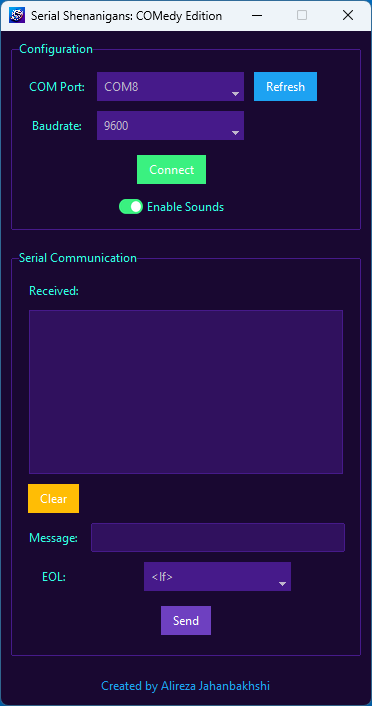
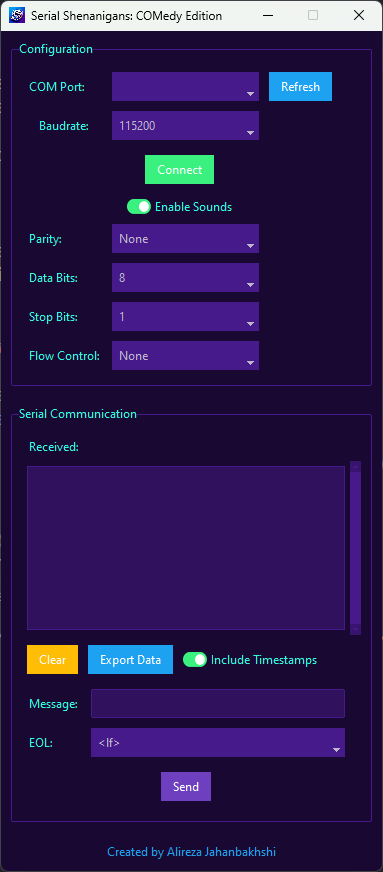
feat: Advanced Serial App features and enhanced documentation  - **Code Updates**:   - Introduced advanced serial port settings (parity, stop bits, data bits, and flow control).   - Added data export functionality supporting `.txt`, `.csv`, and `.json` formats.   - Enhanced user experience with a ti

diff --git a/serial_app.py b/serial_app.py
@@ -1,9 +1,13 @@
 import ttkbootstrap as ttk
 from ttkbootstrap.constants import *
+from tkinter import messagebox  
 import serial
 import serial.tools.list_ports
 import threading
 import winsound  
+import json
+from tkinter import filedialog
+from datetime import datetime
 
 class SerialApp:
     def __init__(self, root):
@@ -51,15 +55,37 @@ class SerialApp:
         io_frame = ttk.Labelframe(root, text="Serial Communication", padding=10)
         io_frame.pack(fill=BOTH, expand=YES, padx=10, pady=10)
 
-        # Received Data Display
+        # Received Data Display with Scrollbar
         ttk.Label(io_frame, text="Received:").grid(row=0, column=0, padx=5, pady=5)
-        self.receive_text = ttk.Text(io_frame, height=10, width=50, state=NORMAL)
-        self.receive_text.grid(row=1, column=0, columnspan=2, padx=5, pady=5)
-        self.receive_text.config(state=DISABLED)
+        self.receive_text = ttk.Text(io_frame, height=10, width=50, wrap='word', state=DISABLED)
+        self.receive_text.grid(row=1, column=0, columnspan=2, padx=5, pady=5, sticky='nsew')
+
+        # Add Scrollbar
+        scrollbar = ttk.Scrollbar(io_frame, orient='vertical', command=self.receive_text.yview)
+        scrollbar.grid(row=1, column=2, sticky='ns')
+        self.receive_text.config(yscrollcommand=scrollbar.set)
+
+        # Row for Clear, Export, and Timestamp Toggle
+        button_frame = ttk.Frame(io_frame)  # Create a sub-frame to align buttons
+        button_frame.grid(row=2, column=0, columnspan=3, pady=5, sticky='w')
 
         # Clear Button
-        clear_button = ttk.Button(io_frame, text="Clear", bootstyle="warning", command=self.clear_terminal)
-        clear_button.grid(row=2, column=0, padx=5, pady=5)
+        clear_button = ttk.Button(button_frame, text="Clear", bootstyle="warning", command=self.clear_terminal)
+        clear_button.grid(row=0, column=0, padx=5, pady=5)
+
+        # Export Button
+        export_button = ttk.Button(button_frame, text="Export Data", bootstyle="info", command=self.export_data)
+        export_button.grid(row=0, column=1, padx=5, pady=5)
+
+        # Timestamp Toggle
+        self.save_timestamp = ttk.BooleanVar(value=True)  # Default: Include timestamps
+        timestamp_toggle = ttk.Checkbutton(
+            button_frame,
+            text="Include Timestamps",
+            variable=self.save_timestamp,
+            bootstyle="round-toggle-success",
+        )
+        timestamp_toggle.grid(row=0, column=2, padx=5, pady=5)
 
         # Message to Send
         ttk.Label(io_frame, text="Message:").grid(row=3, column=0, padx=5, pady=5)
@@ -68,15 +94,31 @@ class SerialApp:
         send_entry.grid(row=3, column=1, padx=5, pady=5)
 
         # End-of-Line Selection
-        ttk.Label(io_frame, text="EOL:").grid(row=4, column=0, padx=5, pady=5)
+        ttk.Label(io_frame, text="EOL:").grid(row=4, column=0, padx=5, pady=5, sticky='w')
+
         self.eol_var = ttk.StringVar(value="<lf>")
-        eol_menu = ttk.Combobox(io_frame, textvariable=self.eol_var, state="readonly")
-        eol_menu['values'] = ["<cr>", "<lf>", "<cr><lf>", "<none>"]
-        eol_menu.grid(row=4, column=1, padx=5, pady=5)
+        eol_menu = ttk.Combobox(io_frame, textvariable=self.eol_var, state="readonly", width=12)
+        eol_menu['values'] = ["<cr>", "<lf>", "<cr><lf>", "<none>", "Other"]
+        eol_menu.grid(row=4, column=1, padx=5, pady=5, sticky='nwes')  # Slight right padding for spacing
+
+        # Custom EOL Entry (initially hidden)
+        self.custom_eol_var = ttk.StringVar()
+        self.custom_eol_entry = ttk.Entry(io_frame, textvariable=self.custom_eol_var, width=12)
+        self.custom_eol_entry.grid(row=5, column=1, padx=5, pady=5,sticky='nwes')  # Slight left padding for spacing
+        self.custom_eol_entry.grid_remove()  # Hide by default
+
+        # Bind event to show/hide custom EOL entry
+        def toggle_custom_eol(*args):
+            if self.eol_var.get() == "Other":
+                self.custom_eol_entry.grid()  # Show entry
+            else:
+                self.custom_eol_entry.grid_remove()  # Hide entry
+
+        self.eol_var.trace_add("write", toggle_custom_eol)
 
         # Send Button
         send_button = ttk.Button(io_frame, text="Send", bootstyle="primary", command=self.send_message)
-        send_button.grid(row=5, column=0, columnspan=2, pady=10)
+        send_button.grid(row=6, column=0, columnspan=2, pady=10)
 
         # Author and GitHub Link
         self.author_label = ttk.Label(root, text="Created by Alireza Jahanbakhshi", bootstyle="info", cursor="hand2")
@@ -94,7 +136,97 @@ class SerialApp:
         )
         sound_toggle.grid(row=3, column=0, columnspan=3, pady=5)
 
+        # Advanced Serial Settings
+        ttk.Label(config_frame, text="Parity:").grid(row=4, column=0, padx=5, pady=5, sticky='nsew')
+        self.parity_var = ttk.StringVar(value="None")
+        parity_menu = ttk.Combobox(config_frame, textvariable=self.parity_var, state="readonly")
+        parity_menu['values'] = ["None", "Odd", "Even", "Mark", "Space"]
+        parity_menu.grid(row=4, column=1, padx=5, pady=5)
 
+        ttk.Label(config_frame, text="Data Bits:").grid(row=5, column=0, padx=5, pady=5, sticky='nsew')
+        self.data_bits_var = ttk.StringVar(value="8")
+        data_bits_menu = ttk.Combobox(config_frame, textvariable=self.data_bits_var, state="readonly")
+        data_bits_menu['values'] = ["5", "6", "7", "8"]
+        data_bits_menu.grid(row=5, column=1, padx=5, pady=5)
+
+        ttk.Label(config_frame, text="Stop Bits:").grid(row=6, column=0, padx=5, pady=5, sticky='nsew')
+        self.stop_bits_var = ttk.StringVar(value="1")
+        stop_bits_menu = ttk.Combobox(config_frame, textvariable=self.stop_bits_var, state="readonly")
+        stop_bits_menu['values'] = ["1", "1.5", "2"]
+        stop_bits_menu.grid(row=6, column=1, padx=5, pady=5)
+
+        ttk.Label(config_frame, text="Flow Control:").grid(row=7, column=0, padx=5, pady=5, sticky='nsew')
+        self.flow_control_var = ttk.StringVar(value="None")
+        flow_control_menu = ttk.Combobox(config_frame, textvariable=self.flow_control_var, state="readonly")
+        flow_control_menu['values'] = ["None", "XON/XOFF", "RTS/CTS", "DSR/DTR"]
+        flow_control_menu.grid(row=7, column=1, padx=5, pady=5)
+
+    def parse_line(self, line):
+        """Parse a line of data into timestamp and message."""
+        if "]" in line:  # Assume format like [timestamp] message
+            parts = line.split("] ", 1)
+            timestamp = parts[0].strip("[]")
+            message = parts[1].strip()
+            return timestamp, message
+        else:
+            return "", line.strip()  # No timestamp, return raw message
+
+    def connect_serial(self):
+        """Connect or disconnect the serial port."""
+        if self.serial_port and self.serial_port.is_open:
+            # Disconnect
+            self.stop_thread.set()
+            if self.read_thread:
+                self.read_thread.join()
+            self.serial_port.close()
+            self.serial_port = None
+            self.connect_button.config(text="Connect", bootstyle="success")
+            self.root.update_idletasks()  # Ensure GUI updates before playing the sound
+            self.play_sound("disconnect_sound.wav")  # Add sound for disconnection
+        else:
+            try:
+                # Map parity settings
+                parity_mapping = {
+                    "None": serial.PARITY_NONE,
+                    "Odd": serial.PARITY_ODD,
+                    "Even": serial.PARITY_EVEN,
+                    "Mark": serial.PARITY_MARK,
+                    "Space": serial.PARITY_SPACE
+                }
+                # Map stop bits settings
+                stop_bits_mapping = {
+                    "1": serial.STOPBITS_ONE,
+                    "1.5": serial.STOPBITS_ONE_POINT_FIVE,
+                    "2": serial.STOPBITS_TWO
+                }
+                # Map flow control settings
+                flow_control_mapping = {
+                    "None": False,
+                    "XON/XOFF": serial.XON_XOFF,
+                    "RTS/CTS": serial.RTSCTS,
+                    "DSR/DTR": serial.DSRDTR
+                }
+
+                # Connect
+                self.serial_port = serial.Serial(
+                    port=self.port_var.get(),
+                    baudrate=int(self.baud_var.get()),
+                    parity=parity_mapping[self.parity_var.get()],
+                    stopbits=stop_bits_mapping[self.stop_bits_var.get()],
+                    bytesize=int(self.data_bits_var.get()),
+                    timeout=0.01,  # Non-blocking read
+                    xonxoff=flow_control_mapping["XON/XOFF"],
+                    rtscts=flow_control_mapping["RTS/CTS"],
+                    dsrdtr=flow_control_mapping["DSR/DTR"]
+                )
+                self.stop_thread.clear()
+                self.read_thread = threading.Thread(target=self.read_from_serial_thread, daemon=True)
+                self.read_thread.start()
+                self.connect_button.config(text="Disconnect", bootstyle="danger")
+                self.root.update_idletasks()  # Ensure GUI updates before playing the sound
+                self.play_sound("connect_sound.wav")  # Add sound for connection
+            except serial.SerialException as e:
+                ttk.Messagebox.show_error("Error", str(e))
 
     def open_github(self, event):
         """Open GitHub profile when clicked."""
@@ -138,6 +270,9 @@ class SerialApp:
             self.root.update_idletasks()  # Ensure GUI updates before playing the sound
             self.play_sound("disconnect_sound.wav")  # Add sound for disconnection
         else:
+            if not self.port_var.get():
+                messagebox.showerror("Error", "Please select a COM port before connecting.")
+                return
             try:
                 # Connect
                 self.serial_port = serial.Serial(
@@ -152,8 +287,45 @@ class SerialApp:
                 self.root.update_idletasks()  # Ensure GUI updates before playing the sound
                 self.play_sound("connect_sound.wav")  # Add sound for connection
             except serial.SerialException as e:
-                ttk.Messagebox.show_error("Error", str(e))
+                messagebox.showerror("Error", str(e))
 
+    def export_data(self):
+        """Export received data to a file."""
+        # Open a save file dialog
+        filetypes = [("Text File", "*.txt"), ("CSV File", "*.csv"), ("JSON File", "*.json")]
+        filepath = filedialog.asksaveasfilename(title="Save Data", defaultextension=".txt", filetypes=filetypes)
+
+        if filepath:
+            try:
+                # Get the received data
+                self.receive_text.config(state=NORMAL)  # Temporarily enable editing to get content
+                data = self.receive_text.get(1.0, "end-1c")  # Get all text except the trailing newline
+                self.receive_text.config(state=DISABLED)  # Disable editing again
+
+                # Write data to the selected file format
+                if filepath.endswith(".txt"):
+                    with open(filepath, "w", encoding="utf-8") as f:
+                        f.write(data)
+
+                elif filepath.endswith(".csv"):
+                    with open(filepath, "w", encoding="utf-8") as f:
+                        lines = data.split("\n")
+                        f.write("Timestamp,Message\n")  # Example CSV header
+                        for line in lines:
+                            if line.strip():  # Skip empty lines
+                                timestamp, message = self.parse_line(line)
+                                f.write(f"{timestamp},{message}\n")
+
+                elif filepath.endswith(".json"):
+                    with open(filepath, "w", encoding="utf-8") as f:
+                        lines = data.split("\n")
+                        json_data = [{"timestamp": self.parse_line(line)[0], "message": self.parse_line(line)[1]} for line in lines if line.strip()]
+                        json.dump(json_data, f, indent=4)
+
+                messagebox.showinfo("Export Success", f"Data exported successfully to {filepath}")
+
+            except Exception as e:
+                messagebox.showerror("Export Error", f"Failed to export data: {e}")
 
     def read_from_serial_thread(self):
         """Read data from the serial port in a separate thread."""
@@ -174,9 +346,15 @@ class SerialApp:
 
     def update_receive_text(self, data):
         """Update the received text area in the GUI thread."""
+        if self.save_timestamp.get():  # Check if timestamps are enabled
+            timestamp = datetime.now().strftime("[%Y-%m-%d %H:%M:%S]")
+            formatted_data = f"{timestamp} {data}"  # Add timestamp to the data
+        else:
+            formatted_data = data
+
         self.receive_text.config(state=NORMAL)
-        self.receive_text.insert(END, data)
-        self.receive_text.see(END)  # Auto-scroll to the end
+        self.receive_text.insert("end", formatted_data)
+        self.receive_text.see("end")  # Auto-scroll to the end
         self.receive_text.config(state=DISABLED)
 
     def send_message(self):
@@ -192,17 +370,18 @@ class SerialApp:
                     message += "\n"
                 elif eol == "<cr><lf>":
                     message += "\r\n"
+                elif eol == "Other":
+                    message += self.custom_eol_var.get()  # Use custom EOL input
                 # Send the message
                 self.serial_port.write(message.encode('utf-8'))
         else:
-            ttk.Messagebox.show_error("Error", "Serial port is not connected.")
+            messagebox.showerror("Error", "Serial port is not connected.")
 
     def clear_terminal(self):
         """Clear the received text display."""
         self.receive_text.config(state=NORMAL)
         self.receive_text.delete(1.0, END)
         self.receive_text.config(state=DISABLED)
-
 
 if __name__ == "__main__":
     root = ttk.Window(themename="vapor")

diff --git a/README.md b/README.md
@@ -12,12 +12,48 @@ If you've ever wanted to play around with serial communication and have a good l
 
 ## 🚀 Features
 
-- **COM Port Detection**: Automatically detect available serial ports on your machine.
-- **Baudrate Selection**: Choose from a comprehensive list of standard baud rates.
-- **Connect and Communicate**: Establish a connection to your serial port and start the fun.
-- **Comedic Sounds**: Play system sounds and enjoy some lighthearted humor while you work.
-- **Completely GUI-Driven**: No command line necessary. Just point, click, and laugh.
-- **Real-Time Serial Communication**: View and send data seamlessly.
+### 1. Serial Port Configuration
+- **Dynamic COM Port Detection**: Automatically detects and lists available serial ports on your system.
+- **Refresh Option**: Updates the COM port list in real-time.
+- **Customizable Baud Rate Settings**: Select from a comprehensive list of standard baud rates.
+
+### 2. Connection Management
+- **Connect/Disconnect Functionality**: Seamlessly establish or terminate connections to the selected COM port.
+- **Advanced Serial Settings**:
+  - **Parity Configuration**: Supports None, Odd, Even, Mark, and Space.
+  - **Adjustable Data Bits**: Choose from 5, 6, 7, or 8 data bits.
+  - **Flexible Stop Bits Options**: Configure to 1, 1.5, or 2 stop bits.
+  - **Flow Control Mechanisms**: Supports None, XON/XOFF, RTS/CTS, and DSR/DTR.
+
+### 3. Data Management and Processing
+- **Real-Time Data Monitoring**: View incoming data in a dedicated text area.
+- **Timestamp Integration**: Toggle timestamps to include date and time with each received message.
+- **Data Export Options**:
+  - Export received data to `.txt`, `.csv`, or `.json` formats.
+- **Clear Display**: Instantly clear the data display area with a single click.
+
+### 4. Message Transmission
+- **Custom Message Input**: Enter and send user-defined messages.
+- **End-of-Line Character Options**:
+  - Predefined choices: `<cr>`, `<lf>`, `<cr><lf>`, and `<none>`.
+  - **Custom EOL Definition**: Option to define and use custom EOL characters.
+
+### 5. User Experience Enhancements
+- **Sound Feedback**:
+  - Notification sounds for connection, disconnection, and other key actions.
+  - Easily toggle sound effects on or off.
+- **Modern GUI Design**:
+  - Built with ttkbootstrap for a professional and responsive user interface.
+  - Compact layout with enhanced usability.
+  - Scrollable text area for managing extensive data streams.
+
+### 6. Error Handling and Notifications
+- **Connection Error Messages**: Provides clear feedback for issues like unavailable ports or connection failures.
+- **Export Failures**: Alerts the user if data export encounters errors.
+
+### 7. Developer-Friendly Features
+- **Author Attribution and GitHub Integration**:
+  - Quick access to the author’s GitHub profile for further collaboration.
 
 ---
 
@@ -46,11 +82,15 @@ Here's a sneak peek at how the app looks:
 
 ### Prerequisites
 
-Before running the project, you'll need:
+Before running the project, ensure you have the following installed:
 
-- Python 3.x
-- `ttkbootstrap` library (for the fancy GUI)
-- `pyserial` library (for serial communication)
+1. **Python**: Version 3.x is required.
+2. **Dependencies**:
+   - `ttkbootstrap`: For enhanced GUI components and themes.
+   - `pyserial`: To enable serial communication with COM ports.
+   - `winsound` *(Windows-only)*: For sound notifications.
+   - `json` *(built-in)*: For handling data serialization.
+   - `datetime` *(built-in)*: For generating timestamps.
 
 ### Installation
 
@@ -109,17 +149,6 @@ class SerialApp:
         # Set window icon (optional)
         icon_image = ttk.PhotoImage(file="icon.png")
         root.tk.call("wm", "iconphoto", root._w, icon_image)
-
-        # Frame for Port and Baudrate Configuration
-        config_frame = ttk.Labelframe(root, text="Configuration", padding=10)
-        config_frame.pack(fill=X, padx=10, pady=10)
-
-        # COM Port Selection
-        ttk.Label(config_frame, text="COM Port:").grid(row=0, column=0, padx=5, pady=5, sticky='nsew')
-        self.port_var = ttk.StringVar()
-        self.port_menu = ttk.Combobox(config_frame, textvariable=self.port_var, state="readonly")
-        self.port_menu.grid(row=0, column=1, padx=5, pady=5, sticky='nsew')
-        self.refresh_ports()
 ```
 
 ---
